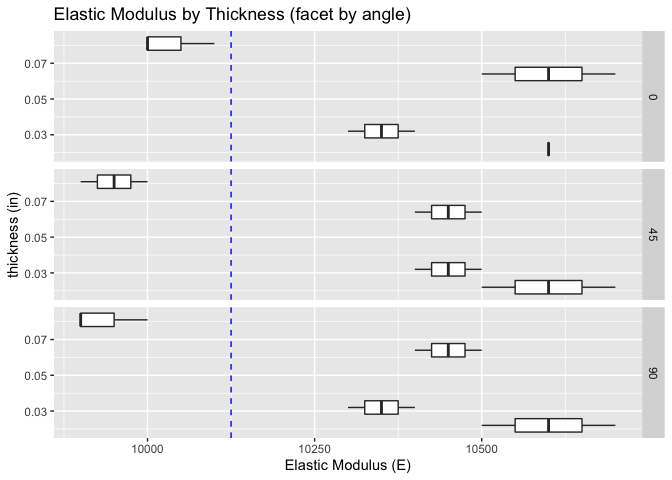
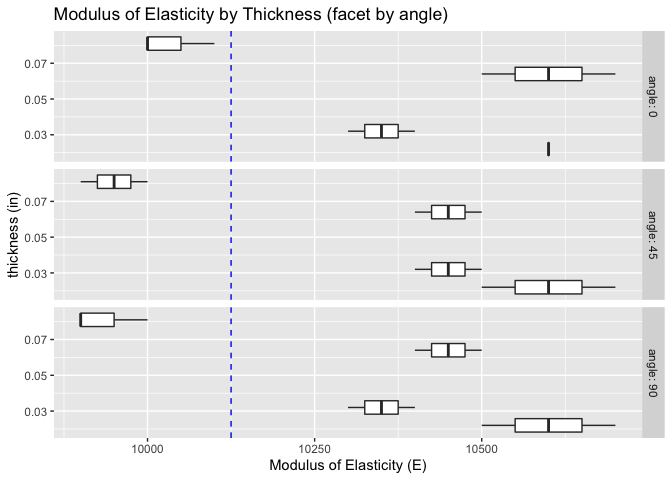
Update c03 based on learning group discussion
- Update plots
- Tidy up copy

diff --git a/challenges/c03-stang-assignment.md b/challenges/c03-stang-assignment.md
@@ -68,14 +68,14 @@ for more information.
 library(tidyverse)
 ```
 
-    ## ── Attaching packages ────────────────────────────────────────────────── tidyverse 1.3.0 ──
+    ## ── Attaching packages ─────────────────────────────────────────── tidyverse 1.3.0 ──
 
     ## ✓ ggplot2 3.3.2     ✓ purrr   0.3.4
     ## ✓ tibble  3.0.1     ✓ dplyr   1.0.0
     ## ✓ tidyr   1.1.0     ✓ stringr 1.4.0
     ## ✓ readr   1.3.1     ✓ forcats 0.5.0
 
-    ## ── Conflicts ───────────────────────────────────────────────────── tidyverse_conflicts() ──
+    ## ── Conflicts ────────────────────────────────────────────── tidyverse_conflicts() ──
     ## x dplyr::filter() masks stats::filter()
     ## x dplyr::lag()    masks stats::lag()
 
@@ -288,15 +288,16 @@ df_stang_long %>%
   geom_boxplot(aes(y = E, x = thick, group = thick)) +
   geom_hline(yintercept = 10125, color = "blue", linetype = "dashed") +
   coord_flip() +
-  labs(title = "Elastic Modulus by Thickness", x = "thickness (in)", y = "Elastic Modulus (E)")
+  labs(title = "Modulus of Elasticity by Thickness", x = "thickness (in)", y = "Modulus of Elasticity (E)")
 ```
 
 ![](c03-stang-assignment_files/figure-gfm/q3-task-plot-1A-1.png)<!-- -->
 
 **Observations**:
 
-  - Overall, there is an inverse relationship between thickness and E
-    though the relationship is not linear across the thicknesses tested
+  - Overall, there is an inverse relationship between thickness and
+    Young’s modulus (E) though the relationship is not linear across the
+    thicknesses tested
       - When `thick = 0.064`, the median E is greater than that of
         `thick = 0.032`
       - `0.081` has the lowest E while E \> 10,125 for all other
@@ -309,9 +310,9 @@ df_stang_long %>%
   ggplot() +
   geom_boxplot(aes(y = E, x = thick, group = thick)) +
   geom_hline(yintercept = 10125, color = "blue", linetype = "dashed") +
-  facet_grid(~ angle ~ .) +
+  facet_grid(angle ~ ., labeller = label_both) +
   coord_flip() +
-  labs(title = "Elastic Modulus by Thickness (facet by angle)", x = "thickness (in)", y = "Elastic Modulus (E)")
+  labs(title = "Modulus of Elasticity by Thickness (facet by angle)", x = "thickness (in)", y = "Modulus of Elasticity (E)")
 ```
 
 ![](c03-stang-assignment_files/figure-gfm/q3-task-plot-1B-1.png)<!-- -->
@@ -336,7 +337,7 @@ df_stang_long %>%
   geom_boxplot(aes(y = mu, x = thick, group = thick)) +
   geom_hline(yintercept = 0.31625, color = "blue", linetype = "dashed") +
   coord_flip() +
-  labs(title = "Shear Modulus by Thickness", x = "thickness (in)", y = "Sheer Modulus (mu)")
+  labs(title = "Poisson's ratio by Thickness", x = "thickness (in)", y = "Poisson's ratio (mu)")
 ```
 
 ![](c03-stang-assignment_files/figure-gfm/q3-task-plot-2A-1.png)<!-- -->
@@ -353,22 +354,25 @@ df_stang_long %>%
   ggplot() +
   geom_boxplot(aes(y = mu, x = thick, group = thick)) +
   geom_hline(yintercept = 0.31625, color = "blue", linetype = "dashed") +
-  facet_grid(~ angle ~ .) +
+  facet_grid(angle ~ ., labeller = label_both) +
   coord_flip() +
-  labs(title = "Sheer Modulus by Thickness (facet by angle)", x = "thickness (in)", y = "Sheer Modulus (mu)")
+  labs(title = "Poisson's ratio by Thickness (facet by angle)", x = "thickness (in)", y = "Poisson's ratio (mu)")
 ```
 
 ![](c03-stang-assignment_files/figure-gfm/q3-task-plot-2B-1.png)<!-- -->
 
 **Observations**:
 
-  - Across all angles, the median sheer modulus (`mu`) is less than
+  - Across all angles, the median Poisson’s ratio (`mu`) is less than
     0.31625 (the dotted blue line) for `thick = 0.081` and is the lowest
     value across all thicknesses
   - All `mu` values less than 0.31625 are associated with `thick
     = 0.081`
-  - The lowest thickness (`thick = 0.022`) has the widest range of mu
+  - The lowest thickness (`thick = 0.022`) has the widest range of `mu`
     values
+  - There is a general pattern across thicknesses where Poisson’s ratio
+    increases between 0 degrees and 45 degrees but decreases between 45
+    degrees and 90 degrees
 
 **q4** Consider the following statement:
 
@@ -395,7 +399,7 @@ df_stang_long %>%
 **Observations**:
 
   - Does this graph support or contradict the claim above?
-      - The graph contradicts the claim that elasticity (`E`) is an
+      - The graph contradicts the claim that Young’s modulus (`E`) is an
         intensive material property as there seems to be a cluster of
         `thick = 0.081` datapoints around the 10,000 mark for `E` that
         are separate from `E` values for other thicknesses
